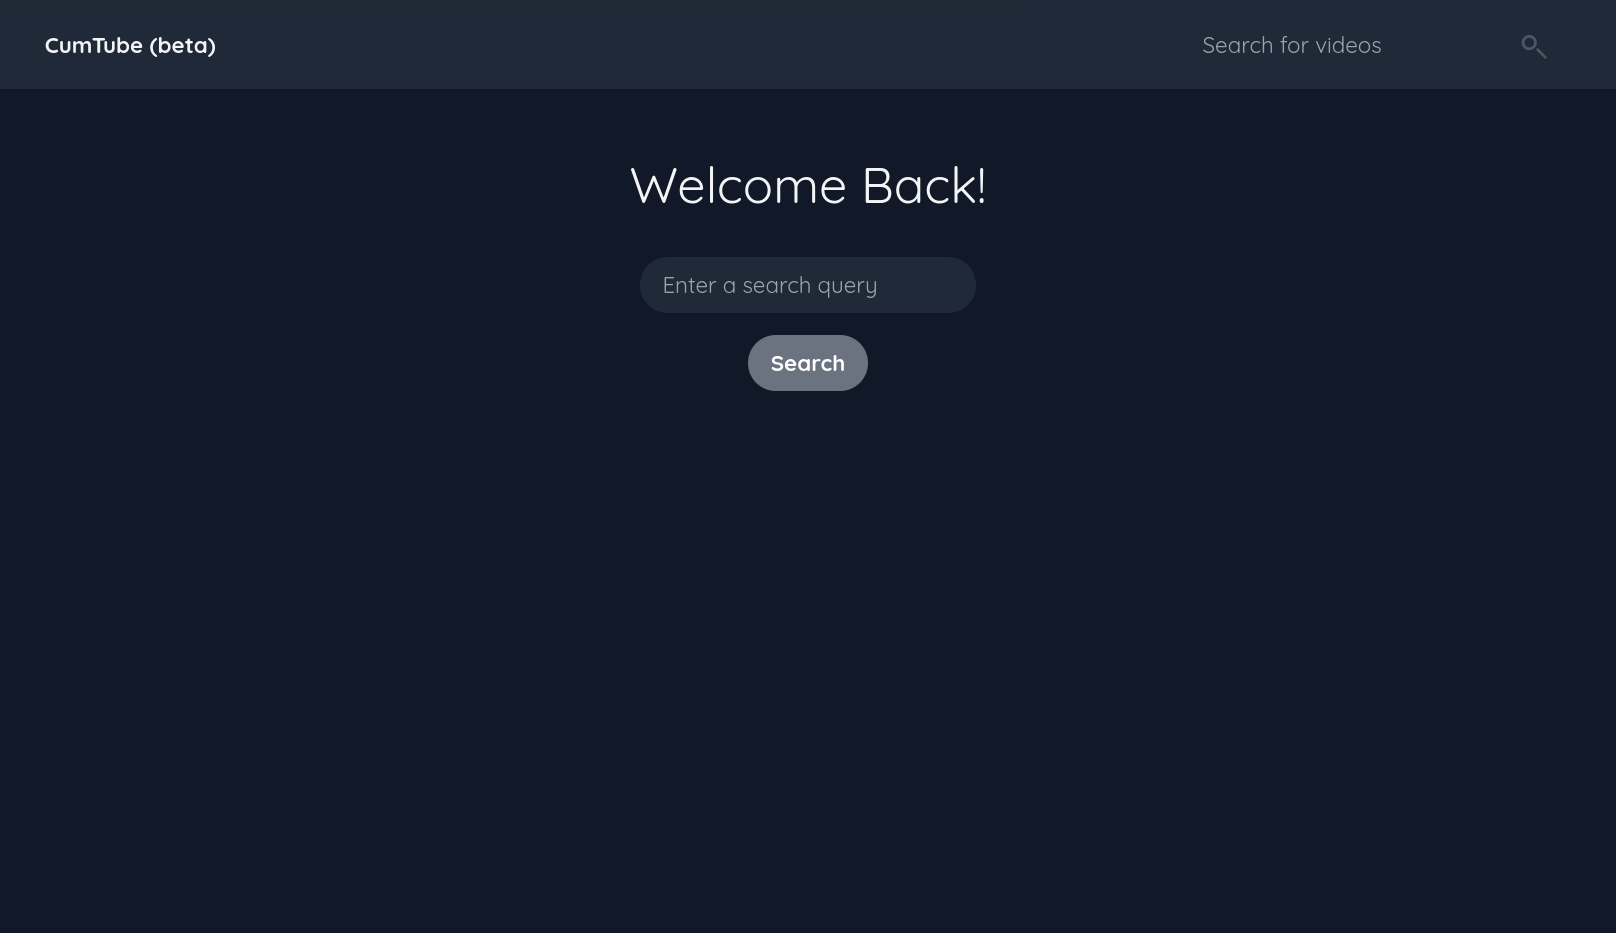
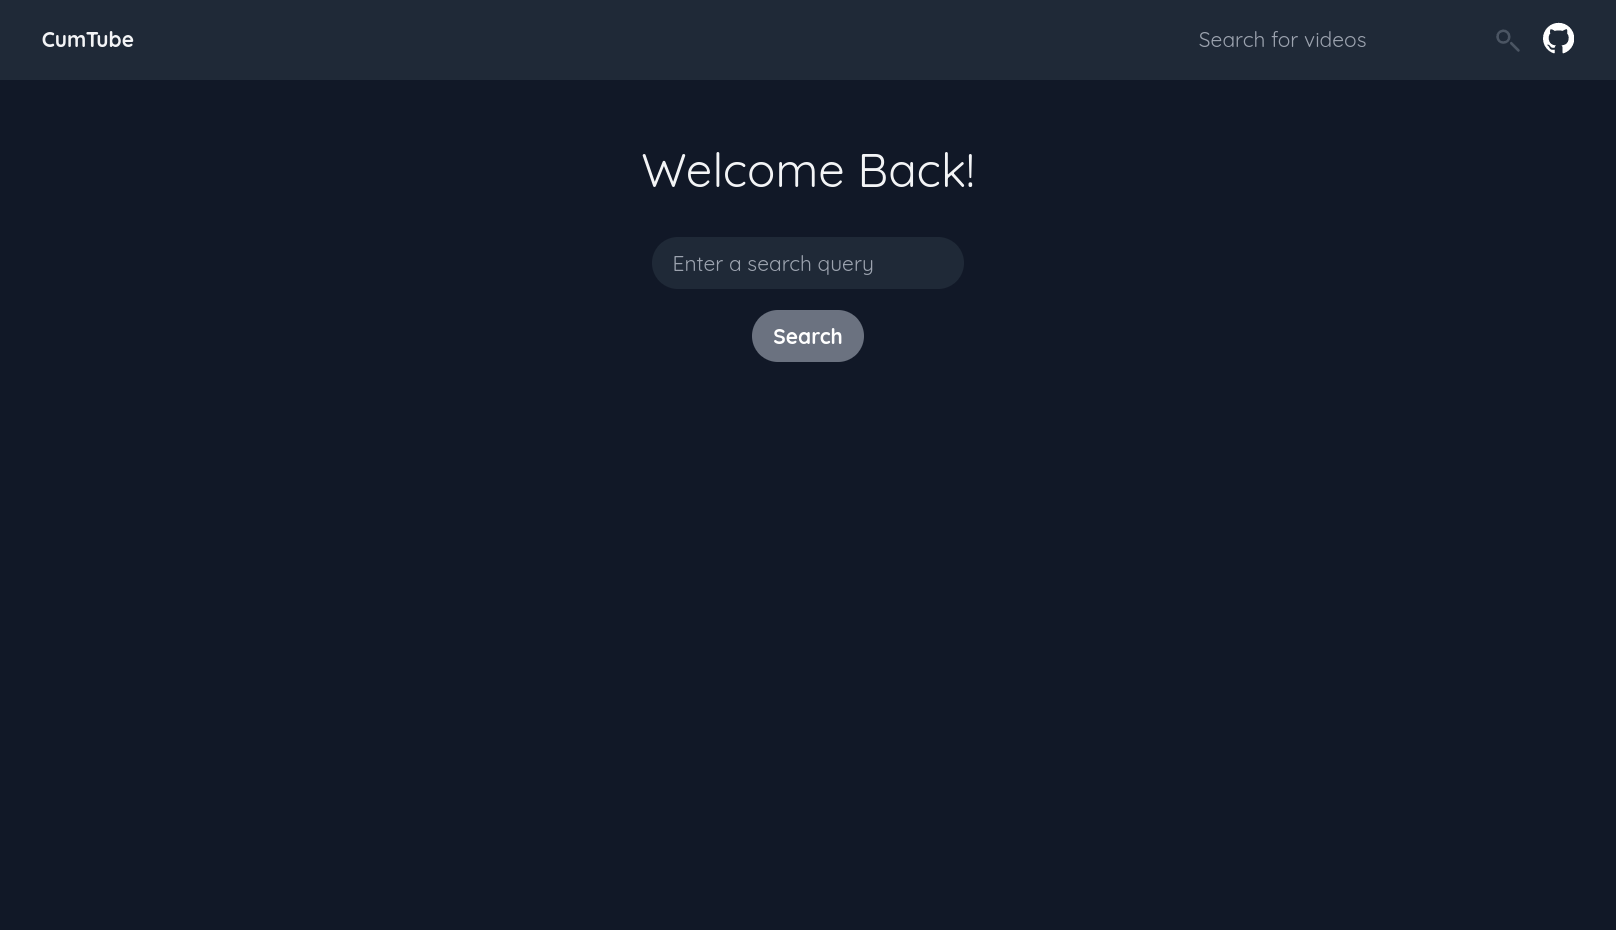
modified:   README.md 	modified:   assets/screenshots/1.png 	modified:   assets/screenshots/2.png 	modified:   assets/screenshots/3.png 	new file:   assets/screenshots/4.png 	new file:   channel.html 	modified:   layout.html 	modified:   main.py 	modified:   search.html 	modified:   watch.html

diff --git a/watch.html b/watch.html
@@ -4,22 +4,17 @@
     <div class="max-w-7xl mx-auto px-4 sm:px-6 lg:px-8 py-8">
         <div class="flex flex-wrap -mx-4">
             <div class="w-full lg:w-3/4 px-4">
-                <div class="bg-gray-800 rounded-lg shadow-md overflow-hidden">
-                    <div class="relative aspect-ratio-16/9">
-                        <iframe class="absolute inset-0 w-full h-full" src="{{ video_url }}" allowfullscreen></iframe>
-                    </div>
-                </div>
                 <div class="bg-gray-800 rounded-lg shadow-md overflow-hidden mt-4">
                     <div class="p-4">
                     	<video controls src="{{ video_url }}"></video>
-                        <h1 class="text-gray-100 font-bold text-xl">{{ video_title }}</h1>
-                        <p class="text-gray-500 hover:text-gray-400 text-sm"><a href="{{ video_channel_url }}">{{ video_channel }}</a></p>
+                        <h1 class="text-gray-100 font-bold text-xl">{{ video.title }}</h1>
+                        <p class="text-gray-500 hover:text-gray-400 text-sm"><a href="{{ video.channel_url.replace('https://www.youtube.com', '') }}">{{ video.author }}</a></p>
                     </div>
                 </div>
                 <div class="bg-gray-800 rounded-lg shadow-md overflow-hidden mt-4">
                     <div class="p-4">
-                    	<p class="text-gray-500 text-sm">{{ video_views }} views.</p>
-                        <p class="text-gray-500 text-sm">{{ video_description }}</p>
+                    	<p class="text-gray-500 text-sm">{{ video.views }} views.</p>
+                        <p class="text-gray-500 text-sm">{{ video.description }}</p>
                     </div>
                 </div>
             </div>
@@ -28,16 +23,16 @@
                     <div class="p-4">
                         <h2 class="text-gray-100 font-bold text-lg mb-4">Related Videos</h2>
                         <div class="grid grid-cols-1 gap-4">
-                            {% for related_video in related_videos %}
-                                <div class="bg-gray-700 rounded-lg shadow-md overflow-hidden">
-                                    <a href="/watch/{{ related_video.video_id }}" class="block hover:bg-gray-600 focus:bg-gray-600 focus:outline-none transition duration-150 ease-in-out">
-                                        <img src="{{ related_video.thumbnail_url }}" alt="{{ related_video.title }}" class="w-full">
-                                        <div class="p-4">
-                                            <h3 class="text-gray-100 font-bold text-base">{{ related_video.title }}</h3>
-                                            <p class="text-gray-500 text-sm">{{ related_video.channel_name }}</p>
-                                        </div>
-                                    </a>
-                                </div>
+                            {% for result in data %}
+                            <div class="flex flex-col bg-gray-700 hover:bg-gray-600 focus:bg-gray-600 focus:outline-none transition rounded-lg overflow-hidden shadow-md self-stretch transition-all duration-200 hover:scale-95 focus:ring-2 focus:ring-offset-2 focus:ring-green-500 hover:ring-2 hover:ring-offset-2 hover:ring-green-500 hover:ring-offset-gray-800">
+                                <a href="/watch/{{ result['video_id'] }}">
+                                  <img class="rounded w-full mb-2" src="{{ result['thumbnail_url'] }}" alt="{{ result['title'] }}">
+                                  <h2 class="p-4 pb-0 text-lg text-white font-medium">{{ result["title"] }}</h2>
+                                  <p class="p-4 pt-0 text-gray-400">{{ result["views"] }} views, {{ result["publishdate"] }}</p>
+                                </a>
+                                <div class="flex flex-col"></div>
+                                <p class="mt-auto p-4 pt-0 text-gray-400 hover:text-gray-300"><a class="" href="{{ result['channel_url'].replace('https://www.youtube.com', '') }}">{{ result['author'] }}</a></p>
+                              </div>
                             {% endfor %}
                         </div>
                     </div>

diff --git a/layout.html b/layout.html
@@ -3,7 +3,7 @@
 <head>
     <meta charset="UTF-8">
     <meta name="viewport" content="width=device-width, initial-scale=1.0">
-    <title>CumTube (beta)</title>
+    <title>CumTube</title>
     <style>
     @font-face {
         font-family: Quicksand;
@@ -21,12 +21,12 @@
         <div class="max-w-7xl mx-auto px-4 sm:px-6 lg:px-8">
             <div class="flex items-center justify-between h-16">
                 <div class="flex items-center">
-                    <a href="/" class="text-gray-100 font-bold">CumTube (beta)</a>
+                    <a href="/" class="text-gray-100 font-bold">CumTube</a>
                 </div>
                 <div class="flex-1 flex items-center justify-center sm:items-stretch sm:justify-end">
                     <form method="get" action="/search" class="w-full sm:max-w-xs">
                         <div class="relative flex items-center justify-center">
-                            <input type="text" name="q" id="search_query" class="bg-gray-800 text-gray-100 border-2 border-transparent rounded-md py-2 px-4 leading-5 placeholder-gray-400 focus:outline-none focus:border-gray-500 focus:ring-2 focus:ring-offset-2 focus:ring-offset-gray-900 focus:ring-white transition duration-150 ease-in-out" placeholder="Search for videos">
+                            <input type="text" name="q" id="search_query" class="bg-gray-800 text-gray-100 border-2 border-transparent rounded-md py-2 px-4 leading-5 placeholder-gray-400 focus:outline-none focus:border-gray-500 focus:ring-0.5 focus:ring-offset-0 focus:ring-offset-gray-900 focus:ring-gray-500 transition duration-150 ease-in-out" placeholder="Search for videos">
                             <button type="submit" class="absolute right-0 top-0 h-full w-10 text-gray-600 hover:text-gray-100 focus:outline-none focus:text-gray-100">
                                 <svg fill="none" viewBox="0 0 24 24" stroke="currentColor" class="search-icon w-6 h-6">
                                     <path stroke-linecap="round" stroke-linejoin="round" stroke-width="2" d="M15.5 15.5l5.5 5.5"/>
@@ -35,6 +35,12 @@
                             </button>
                         </div>
                     </form>
+                    <a href="https://github.com/Mollomm1/CumTube">
+                        <svg xmlns="http://www.w3.org/2000/svg" class="bi bi-github" viewBox="0 0 16 16" fill="white" height="100%" width="24">
+                            <path d="M8 0C3.58 0 0 3.58 0 8c0 3.54 2.29 6.53 5.47 7.59.4.07.55-.17.55-.38 0-.19-.01-.82-.01-1.49-2.01.37-2.53-.49-2.69-.94-.09-.23-.48-.94-.82-1.13-.28-.15-.68-.52-.01-.53.63-.01 1.08.58 1.23.82.72 1.21 1.87.87 2.33.66.07-.52.28-.87.51-1.07-1.78-.2-3.64-.89-3.64-3.95 0-.87.31-1.59.82-2.15-.08-.2-.36-1.02.08-2.12 0 0 .67-.21 2.2.82.64-.18 1.32-.27 2-.27.68 0 1.36.09 2 .27 1.53-1.04 2.2-.82 2.2-.82.44 1.1.16 1.92.08 2.12.51.56.82 1.27.82 2.15 0 3.07-1.87 3.75-3.65 3.95.29.25.54.73.54 1.48 0 1.07-.01 1.93-.01 2.2 0 .21.15.46.55.38A8.012 8.012 0 0 0 16 8c0-4.42-3.58-8-8-8z"></path>
+                          </svg>
+                    </a>
+                                          
                 </div>
             </div>
         </div>

diff --git a/search.html b/search.html
@@ -3,16 +3,16 @@
 {% block content %}
     <h1 class="text-4xl font-bold mt-12 text-gray-100 mb-8">Search Results for "{{ query }}"</h1>
     <div class="grid grid-cols-1 md:grid-cols-2 lg:grid-cols-3 gap-6">
-        {% for result in results %}
-            <div class="bg-gray-800 hover:bg-gray-700 focus:bg-gray-600 focus:outline-none transition rounded-lg overflow-hidden shadow-md       self-stretch transition-all duration-200 hover:scale-95 focus:ring-2 focus:ring-offset-2 focus:ring-green-500 hover:ring-2 hover:ring-offset-2 hover:ring-green-500 hover:ring-offset-gray-800">
-                <a href="/watch/{{ result.video_id }}">
-                    <img src="{{ result.thumbnail_url }}" alt="{{ result.title }}" class="w-full h-48 object-cover">
-                    <div class="px-4 py-2">
-                        <h2 class="text-lg font-bold text-gray-100">{{ result.title }}</h2>
-                        <p class="text-gray-400">{{ result.channel }}</p>
-                    </div>
+        {% for result in data %}
+            <div class="flex flex-col bg-gray-800 hover:bg-gray-700 focus:bg-gray-600 focus:outline-none transition rounded-lg overflow-hidden shadow-md self-stretch transition-all duration-200 hover:scale-95 focus:ring-2 focus:ring-offset-2 focus:ring-green-500 hover:ring-2 hover:ring-offset-2 hover:ring-green-500 hover:ring-offset-gray-800">
+                <a href="/watch/{{ result['video_id'] }}">
+                  <img class="rounded w-full mb-2" src="{{ result['thumbnail_url'] }}" alt="{{ result['title'] }}">
+                  <h2 class="p-4 pb-0 text-lg text-white font-medium">{{ result["title"] }}</h2>
+                  <p class="p-4 pt-0 text-gray-400">{{ result["views"] }} views, {{ result["publishdate"] }}</p>
                 </a>
-            </div>
+                <div class="flex flex-col"></div>
+                <p class="mt-auto p-4 pt-0 text-gray-400 hover:text-gray-300"><a class="" href="{{ result['channel_url'].replace('https://www.youtube.com', '') }}">{{ result['author'] }}</a></p>
+              </div>
         {% endfor %}
     </div>
 {% endblock %}

diff --git a/channel.html b/channel.html
@@ -1,0 +1,22 @@
+{% extends 'layout.html' %}
+
+{% block content %}
+<div class="container mx-auto mt-8">
+  <h1 class="text-2xl text-white font-bold mb-4">Videos by {{ channel_name }}</h1>
+  <div class="grid grid-cols-1 sm:grid-cols-2 md:grid-cols-3 lg:grid-cols-4 gap-4">
+    {% for video in videos %}
+    <div class="flex flex-col bg-gray-800 hover:bg-gray-700 focus:bg-gray-600 focus:outline-none transition rounded-lg overflow-hidden shadow-md       self-stretch transition-all duration-200 hover:scale-95 focus:ring-2 focus:ring-offset-2 focus:ring-green-500 hover:ring-2 hover:ring-offset-2 hover:ring-green-500 hover:ring-offset-gray-800">
+      <a href="{{ video['url'].replace('?v=', '/') }}">
+        <img class="rounded w-full mb-2" src="{{ video['thumbnail'] }}" alt="{{ video['title'] }}">
+        <h2 class="p-4 pb-0 text-lg text-white font-medium">{{ video['title'] }}</h2>
+        <p class="p-4 pt-0 text-gray-400">{{ human_format(video['views']) }} views, {{ video['uploadedDate'] }}</p>
+      </a>
+      <div class="flex flex-col"></div>
+      <p class="mt-auto p-4 pt-0 text-gray-400 hover:text-gray-300"><a class="" href="#">{{ video['uploaderName'] }}</a></p>
+    </div>
+    {% endfor %}
+  </div>
+</div>
+{% endblock %}
+
+This template uses the grid and grid-cols classes from Tailwind CSS to display the videos in a responsive grid layout.

diff --git a/main.py b/main.py
@@ -1,9 +1,65 @@
 from flask import Flask, render_template, request
-from pytube import YouTube, Search
+from pytube import YouTube, Search, Channel
+import concurrent.futures, requests, timeago, datetime
+
+def human_format(num):
+    magnitude = 0
+    try:
+        while abs(int(num)) >= 1000:
+            magnitude += 1
+            num /= 1000.0
+        return '%.2f%s' % (int(num), ['', 'K', 'M', 'G', 'T', 'P'][magnitude])
+    except Exception:
+        return '?'
+
+def search_views_human_format(num):
+    magnitude = 0
+    try:
+        num = num.views
+        while abs(int(num)) >= 1000:
+            magnitude += 1
+            num /= 1000.0
+        return '%.2f%s' % (int(num), ['', 'K', 'M', 'G', 'T', 'P'][magnitude])
+    except Exception:
+        return '?'
+
+def search_publishdategetvideodata_better(value, actualtime):
+    try:
+        value = timeago.format(str(value.publish_date))
+        return(value)
+    except Exception as a:
+        return a
+
+def getvideodata(result, actualtime):
+    json = {}
+    json['publishdate'] = search_publishdategetvideodata_better(result, actualtime)
+    json['views'] = search_views_human_format(result)
+    json['title'] = result.title
+    json['video_id'] = result.video_id
+    json['thumbnail_url'] = result.thumbnail_url
+    json['channel_url'] = result.channel_url
+    json['author'] = result.author
+
+    return json
 
 def get_related(video):
-    results = Search(video.title+video.author).results
-    return(results)
+    search_results = Search(video.title+video.author).results
+    actualtime = datetime.datetime.today().strftime('%Y-%m-%d')
+
+    # multithreaded for performance
+    def process_result(result):
+        return getvideodata(result, actualtime)
+    
+    with concurrent.futures.ThreadPoolExecutor() as executor:
+        futures = [executor.submit(process_result, result) for result in search_results]
+        concurrent.futures.wait(futures)
+
+    data = [future.result() for future in futures]
+    return(data)
+
+def get_channel(channel):
+    data = requests.get("https://pipedapi.kavin.rocks/channel/"+channel).json() # i use piped api bc pytube channel is actually broke
+    return(data)
 
 app = Flask(__name__, template_folder='.', static_url_path='/static', static_folder='static')
 
@@ -13,19 +69,19 @@ def index():
 
 @app.route("/watch/<video_id>")
 def watch(video_id):
-    youtube_url = f"https://www.youtube.com/watch?v={video_id}"
+    youtube_url = 'https://www.youtube.com/watch?v='+video_id
     try:
         video = YouTube(youtube_url)
         video_url = video.streams.get_highest_resolution().url
-        video_title = video.title
-        video_channel = video.author
-        video_description = video.description
-        video_channel_url = video.channel_url
-        video_views = video.views
-        related_videos = get_related(video)
-        return render_template('watch.html', video_url=video_url, video_title=video_title, video_channel=video_channel, related_videos=related_videos, video_description=video_description, video_channel_url=video_channel_url, video_views=video_views)
+        data = get_related(video)
+        return render_template('watch.html', video_url=video_url, video=video, data=data)
     except Exception as e:
         return str(e)
+
+@app.route('/channel/<channel_name>')
+def channel(channel_name):
+    c = get_channel(channel_name)
+    return render_template('channel.html', channel_name=c['name'], videos=c['relatedStreams'], human_format=human_format)
 
 @app.route("/search")
 def search():
@@ -34,7 +90,19 @@ def search():
         return "Please enter a search query"
     try:
         search_results = Search(query).results
-        return render_template("search.html", query=query, results=search_results, videos=search_results)
+        actualtime = datetime.datetime.today().strftime('%Y-%m-%d')
+        
+        # multithreaded for performance
+        def process_result(result):
+            return getvideodata(result, actualtime)
+
+        with concurrent.futures.ThreadPoolExecutor() as executor:
+            futures = [executor.submit(process_result, result) for result in search_results]
+            concurrent.futures.wait(futures)
+
+        data = [future.result() for future in futures]
+
+        return render_template("search.html", data=data, query=query)
     except Exception as e:
         return str(e)
 

diff --git a/README.md b/README.md
@@ -7,11 +7,18 @@ adfree unblocked youtube frontend made with CUM and python
 
 [![cum](https://img.shields.io/badge/made%20with-%F0%9F%92%A7%20cum-white)](#) [![cum](https://img.shields.io/badge/powered%20by-%F0%9F%92%A7%20cum-blue)](#)
 
+# Feature
+* funi name
+* no ads
+* fast and lite
+* no javascript required
+
 # ToDo
 
-* Channels Integration
+* Logo
 * Use Another video player (like videojs or Plyr)
 * Ability To Proxify Video Streams
+* Multiple pages for search or channel
 
 # Screenshots
 
@@ -21,12 +28,14 @@ Search:
 [![2](https://github.com/Mollomm1/CumTube/blob/main/assets/screenshots/2.png?raw=true)](#)
 Watch:
 [![3](https://github.com/Mollomm1/CumTube/blob/main/assets/screenshots/3.png?raw=true)](#)
+Channel:
+[![4](https://github.com/Mollomm1/CumTube/blob/main/assets/screenshots/4.png?raw=true)](#)
 
 # Installing
 1. install python3 on https://www.python.org/ or using your package manager
 
 2. install dependencies
-`pip3 install pytube flask`
+`pip3 install pytube flask requests timeago`
 
 3. run server
 `python3 main.py`
